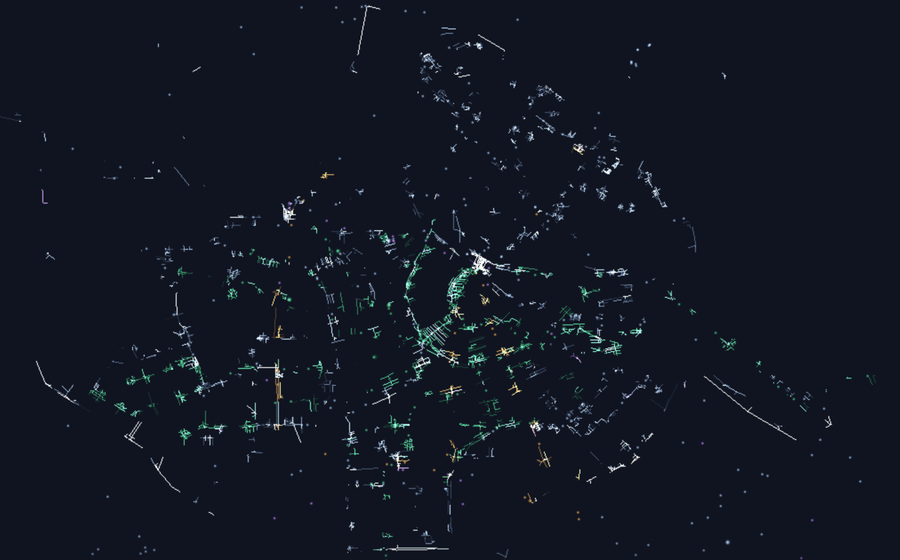
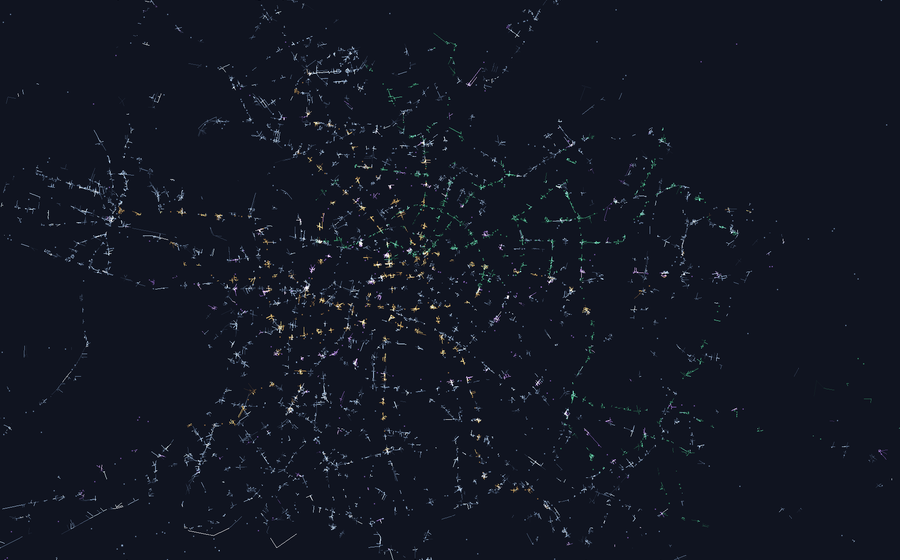
world-ripples card: five cities, Berlin capture
The card was written when the app shipped two cities and showed Amsterdam;
it now ships five (Helsinki, Amsterdam, Berlin, Vienna, Zurich). Blurb and
alt text updated, and 'survives a second city' undersold what the ingest
actually absorbs, so that line now says five national feeds.

Hero + banner frame recaptured on Berlin. Picked by looking at all five
captures rather than by the fill metric -- Amsterdam scores a higher lit-bbox
fill (0.48 vs 0.45) but reads sparse and dim at thumbnail size.

capture_ripples_cities.py is new and encodes three capture bugs found here:
the app must be driven by its own deep link (?city=&speed=300) because there
is no 300x button to click; #intro-begin dismisses the intro, whereas
text=Explore also matches the guided tour's button, which PAUSES the clock;
and device_scale_factor=2 renders the network into the top-left quadrant
(~10%% frame fill) while dsf=1 at a 3200x1800 viewport fills the frame.
It now asserts speed, paused state and ink-fill after each shot.

diff --git a/capture_ripples_cities.py b/capture_ripples_cities.py
@@ -1,0 +1,151 @@
+"""Capture all five world-ripples cities so the hero frame can be picked on evidence.
+
+Run: uv run --with playwright python capture_ripples_cities.py [slug ...]
+
+Why this exists: the profile README's world-ripples card was captured when the
+app had only two cities, and it shows Amsterdam. The app now ships five. Rather
+than guess which city photographs best, capture all of them and choose from a
+measured contact sheet (see rank_ripples_cities.py).
+
+Reuses the hard-won settings from capture_sites.py:
+  * WebGL does NOT render under plain headless Chromium -- run HEADED with the
+    ANGLE/SwiftShader flags.
+  * The page boots behind an intro card; dismiss it via #intro-begin. The
+    overlay HIDES rather than detaching, so never wait for state="detached".
+    Do NOT use `text=Explore`: that ALSO matches the guided tour's Explore
+    button, whose steps call setPaused(true). Captured that way the clock is
+    frozen and no light accumulates -- which is exactly what the first run of
+    this script produced (player stuck at 08:17, network reading as bare dots).
+  * At the default speed the ripples read as scattered dots. Kick to 300x and
+    let light ACCUMULATE into the long-exposure look.
+
+City selection AND speed both use the app's OWN deep-link contract
+(?city=<slug>&speed=300), not the chrome. Two reasons:
+  * The switcher lives inside the places panel, which collapses on each switch,
+    so clicking through it is far more fragile than a URL.
+  * There is NO "300x" button to click. capture_sites.py's `text=300×` selector
+    is a fossil from an older UI -- the speed control is a pair of steppers
+    (id=speed-down / id=speed-up) around a readout, so that click has been
+    silently timing out and every capture was taken at the 60x default. The
+    deep link sets the speed before first paint instead.
+"""
+import sys
+from playwright.sync_api import sync_playwright
+
+RAW = "assets/raw"
+BASE = "https://ihsara.github.io/world-ripples/"
+
+GL_ARGS = [
+    "--use-gl=angle",
+    "--use-angle=default",
+    "--enable-unsafe-swiftshader",
+    "--ignore-gpu-blocklist",
+    "--enable-gpu-rasterization",
+]
+
+CITIES = ["helsinki", "amsterdam", "berlin", "vienna", "zurich"]
+
+SETTLE_MS = 45000
+
+only = sys.argv[1:] or CITIES
+
+with sync_playwright() as p:
+    browser = p.chromium.launch(headless=False, args=GL_ARGS)
+    for slug in only:
+        url = f"{BASE}?city={slug}&speed=300"
+        # 3200x1800 at device_scale_factor=1 -- NOT 1600x900 at dsf=2.
+        # Both give a 3200x1800 PNG, but under dsf=2 this app renders the
+        # network into roughly the top-left QUADRANT (measured: ink confined to
+        # x[0.10,0.40] y[0.05,0.53], ~10% frame fill) while dsf=1 fills the
+        # frame. Same URL, same settle. So ask for the big viewport directly.
+        page = browser.new_page(viewport={"width": 3200, "height": 1800},
+                                device_scale_factor=1)
+        print(f"-> {slug}: {url}")
+        try:
+            page.goto(url, wait_until="networkidle", timeout=120000)
+        except Exception as e:
+            print(f"   networkidle timed out ({type(e).__name__}), continuing")
+        page.wait_for_timeout(3000)
+
+        for sel in ["#intro-begin"]:
+            try:
+                el = page.locator(sel).first
+                el.wait_for(state="visible", timeout=20000)
+                el.click()
+                page.wait_for_timeout(1200)
+                print(f"   clicked {sel}")
+            except Exception as e:
+                print(f"   !! click {sel}: {type(e).__name__}")
+
+        page.wait_for_timeout(SETTLE_MS)
+
+        # Confirm we are on the city we asked for AND that GL is live -- a
+        # silent fallback to the landing default would otherwise produce five
+        # Helsinki captures that all look plausible.
+        try:
+            info = page.evaluate("""() => {
+                const c = document.querySelector('canvas');
+                const gl = c && (c.getContext('webgl2') || c.getContext('webgl'));
+                const sp = document.getElementById('speed-readout');
+                const pp = document.getElementById('play-pause');
+                return {
+                  title: document.title,
+                  canvas: c ? `${c.width}x${c.height}` : 'none',
+                  gl: gl ? 'yes' : 'NO',
+                  speed: sp ? sp.textContent.trim() : 'unknown',
+                  // setPaused() flips aria-pressed (NOT aria-label, which is
+                  // static markup): "true" means PAUSED.
+                  paused: pp ? pp.getAttribute('aria-pressed') : 'unknown',
+                  clock: (document.getElementById('clock') || {}).textContent,
+                };
+            }""")
+            print(f"   {info}")
+            if slug.lower() not in str(info.get("title", "")).lower():
+                print(f"   !! WARNING: title {info.get('title')!r} does not name {slug}")
+            # The whole point of the long settle is light ACCUMULATING at 300x.
+            # A capture at the 60x default reads as scattered dots, and that
+            # failure is invisible in the PNG unless you know what to look for.
+            if "300" not in str(info.get("speed", "")):
+                print(f"   !! WARNING: speed readout is {info.get('speed')!r}, expected 300×")
+            # A paused capture is the failure that cost the first run: the tour's
+            # Explore button freezes the clock, so the frame shows bare dots
+            # instead of accumulated light.
+            if str(info.get("paused")) == "true":
+                print("   !! WARNING: player is PAUSED — no light accumulated")
+        except Exception as e:
+            print(f"   !! probe failed: {type(e).__name__}")
+
+        out = f"{RAW}/wr-{slug}.png"
+        page.screenshot(path=out)
+
+        # Framing gate. A capture where the network hugs one corner is the
+        # dsf=2 bug above, and it is NOT obvious in a thumbnail -- it just
+        # looks like a sparse city. Measure the lit-ink bbox (excluding the
+        # bottom chrome and the right PLACES tab) and complain if it does not
+        # span a decent share of the frame.
+        try:
+            import numpy as np
+            from PIL import Image
+            a = np.asarray(Image.open(out).convert("L"), dtype=np.float32)
+            h, w = a.shape
+            a = a[:int(0.82 * h), :int(0.96 * w)]
+            hh, ww = a.shape
+            lit = a > np.median(a) + 12
+            ys, xs = np.nonzero(lit)
+            if len(xs):
+                x1, x2 = np.percentile(xs, [1, 99]) / ww
+                y1, y2 = np.percentile(ys, [1, 99]) / hh
+                fill = (x2 - x1) * (y2 - y1)
+                print(f"   ink x[{x1:.2f},{x2:.2f}] y[{y1:.2f},{y2:.2f}] fill={fill:.2f}")
+                if fill < 0.25:
+                    print(f"   !! WARNING: network fills only {fill:.0%} of frame "
+                          "— check framing before using this capture")
+            else:
+                print("   !! WARNING: no lit pixels found")
+        except Exception as e:
+            print(f"   (framing check skipped: {type(e).__name__})")
+
+        print(f"   wrote {out}")
+        page.close()
+    browser.close()
+print("done")

diff --git a/make_assets.py b/make_assets.py
@@ -19,9 +19,13 @@ RAW, OUT = "assets/raw", "assets"
 # Fractional crops (left, upper, right, lower) as 0..1 of the source image.
 # Tuned by eyeballing each raw capture -- see the notes per project.
 CROPS = {
-    # Amsterdam ripples: canal-ring radial structure, centred on the lit core.
-    # Stop above the control chrome (y<0.72) so no UI buttons leak in.
-    "world-ripples":      (0.16, 0.02, 0.82, 0.72),
+    # world-ripples: BERLIN as of 2026-07-23 (was Amsterdam, captured when the
+    # app had only two cities; it now ships five). Berlin was chosen by looking
+    # at all five captures, not by the fill metric -- Amsterdam actually scores
+    # a higher lit-bbox fill (0.48 vs 0.45) but reads sparse and dim, while
+    # Berlin's S-Bahn ring and radial spokes are legible at thumbnail size.
+    # Centred crop; stop above the control chrome so no UI buttons leak in.
+    "world-ripples":      (0.20, 0.08, 0.80, 0.92),
     # Helsinki ripples: the coastal spine + dense downtown knot.
     "helsinki-ripples":   (0.26, 0.06, 0.76, 0.76),
     # Breathing: the full lit HSL network; skip the title block at top-left
@@ -47,7 +51,7 @@ CROPS = {
 
 # slug -> raw filename stem
 RAWNAME = {
-    "world-ripples": "world-ripples-full.png",
+    "world-ripples": "wr-berlin.png",
     "helsinki-ripples": "helsinki-ripples-full.png",
     "helsinki-breathing": "helsinki-breathing-full.png",
     "nguyen-citadels": "nguyen-citadels-full.png",
@@ -105,7 +109,11 @@ for slug in GALLERY:
 # capture is horizontally dense.
 BANNER_CROPS = {
     "map-poster":         (0.04, 0.30, 0.62, 0.72),
-    "world-ripples":      (0.16, 0.16, 0.82, 0.62),
+    # Berlin: placed from a MEASURED ink profile, not by eye (the first guess
+    # left the network in the top half over a dead band). Excluding the player
+    # chrome, the network spans y 0.154-0.819 / x 0.198-0.698, and the densest
+    # banner-height band is y 0.372-0.569. Crop is centred on that band.
+    "world-ripples":      (0.20, 0.36, 0.70, 0.58),
     # Vietnam is portrait: take a wide band across the SOUTHERN cluster, where
     # the lit dots are densest, rather than the whole country.
     "place-names":        (0.24, 0.55, 0.72, 0.86),

diff --git a/README.md b/README.md
@@ -44,13 +44,13 @@ Pick a place, a theme, and a print layout — export a poster-quality OSM map. S
 </td>
 <td width="50%" valign="top">
 
-[<img src="assets/thumb-world-ripples.png" width="100%" alt="Amsterdam's transit network breathing in light">](https://ihsara.github.io/world-ripples/)
+[<img src="assets/thumb-world-ripples.png" width="100%" alt="Berlin's transit network breathing in light">](https://ihsara.github.io/world-ripples/)
 
 ### [Cities, Breathing in Light](https://ihsara.github.io/world-ripples/) · `live` · `newest`
 
-Every time a bus, tram, or train reaches a stop, a ripple spreads along the streets a rider could walk in three minutes. Where ripples overlap, the city's pulse brightens. Helsinki and Amsterdam, from the same city-agnostic pipeline.
+Every time a bus, tram, or train reaches a stop, a ripple spreads along the streets a rider could walk in three minutes. Where ripples overlap, the city's pulse brightens. Five cities — Helsinki, Amsterdam, Berlin, Vienna and Zürich — from the same city-agnostic pipeline.
 
-*Shows: baked physics + WebGL2 playback, and a schema that survives a second city.*
+*Shows: baked physics + WebGL2 playback, and an ingest that absorbs five national feeds — each with its own quirks — behind one schema.*
 [code](https://github.com/Ihsara/world-ripples)
 
 </td>
